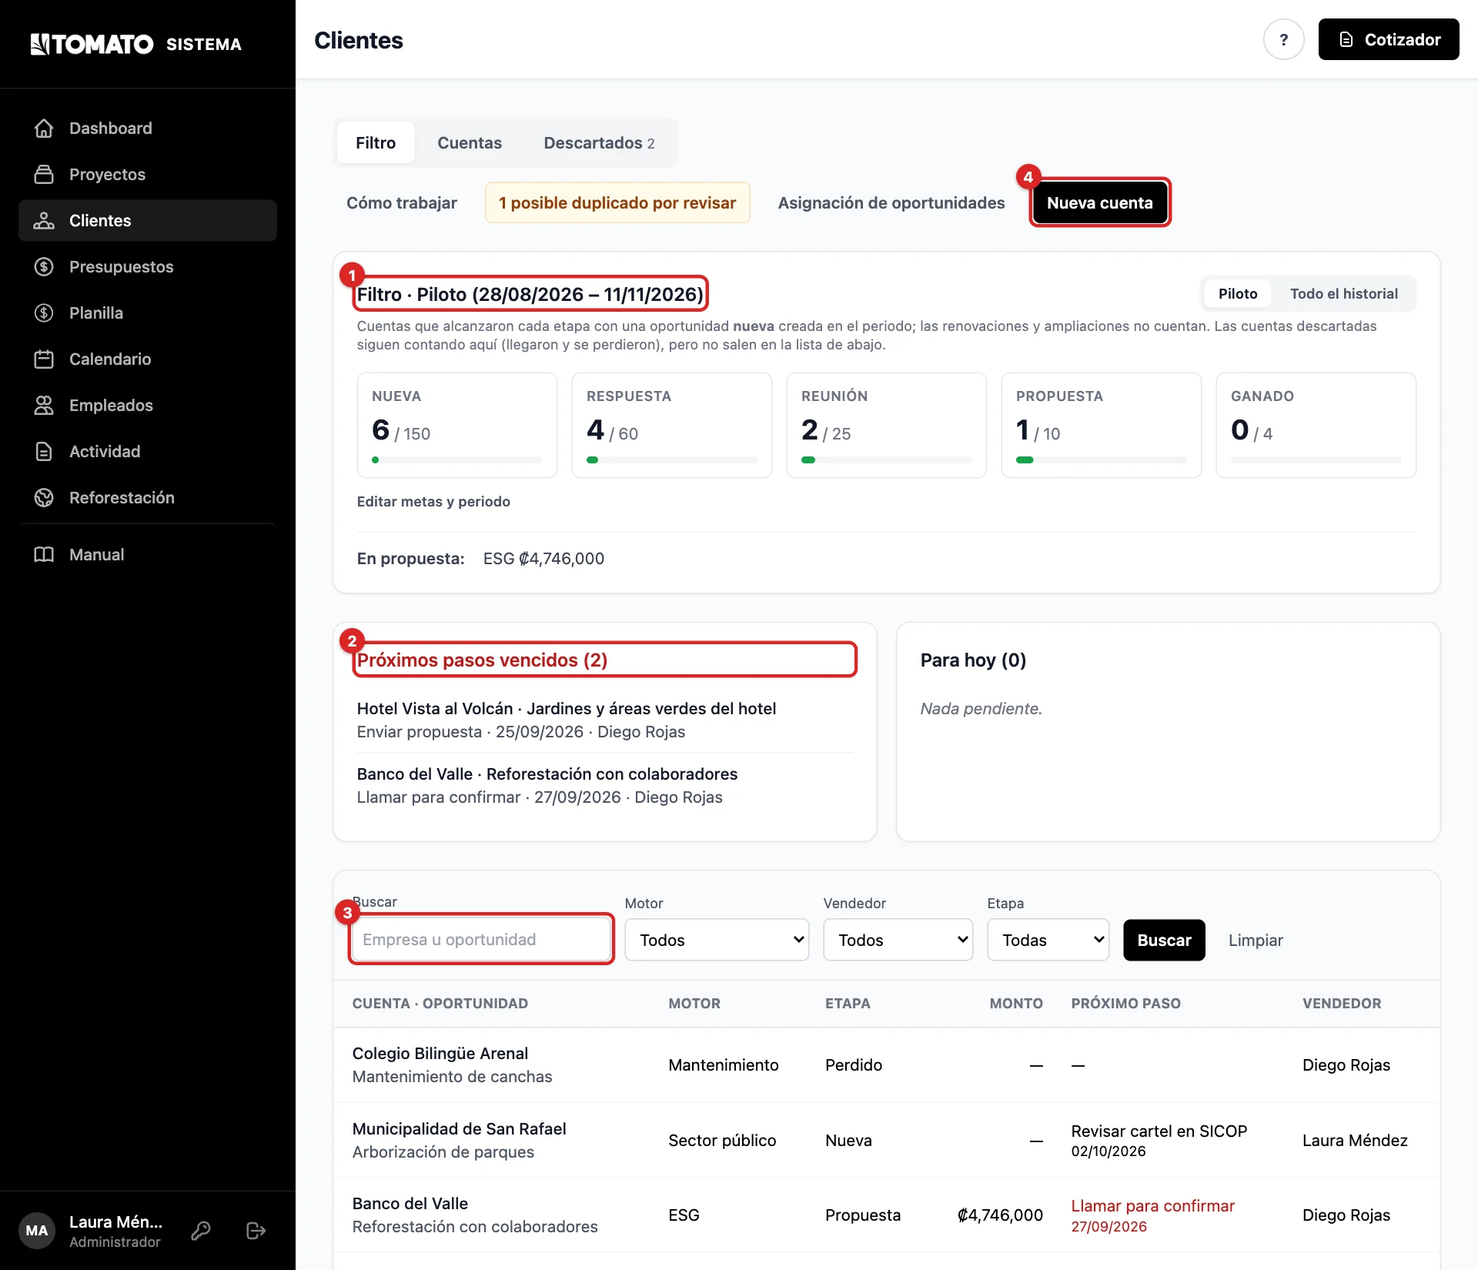
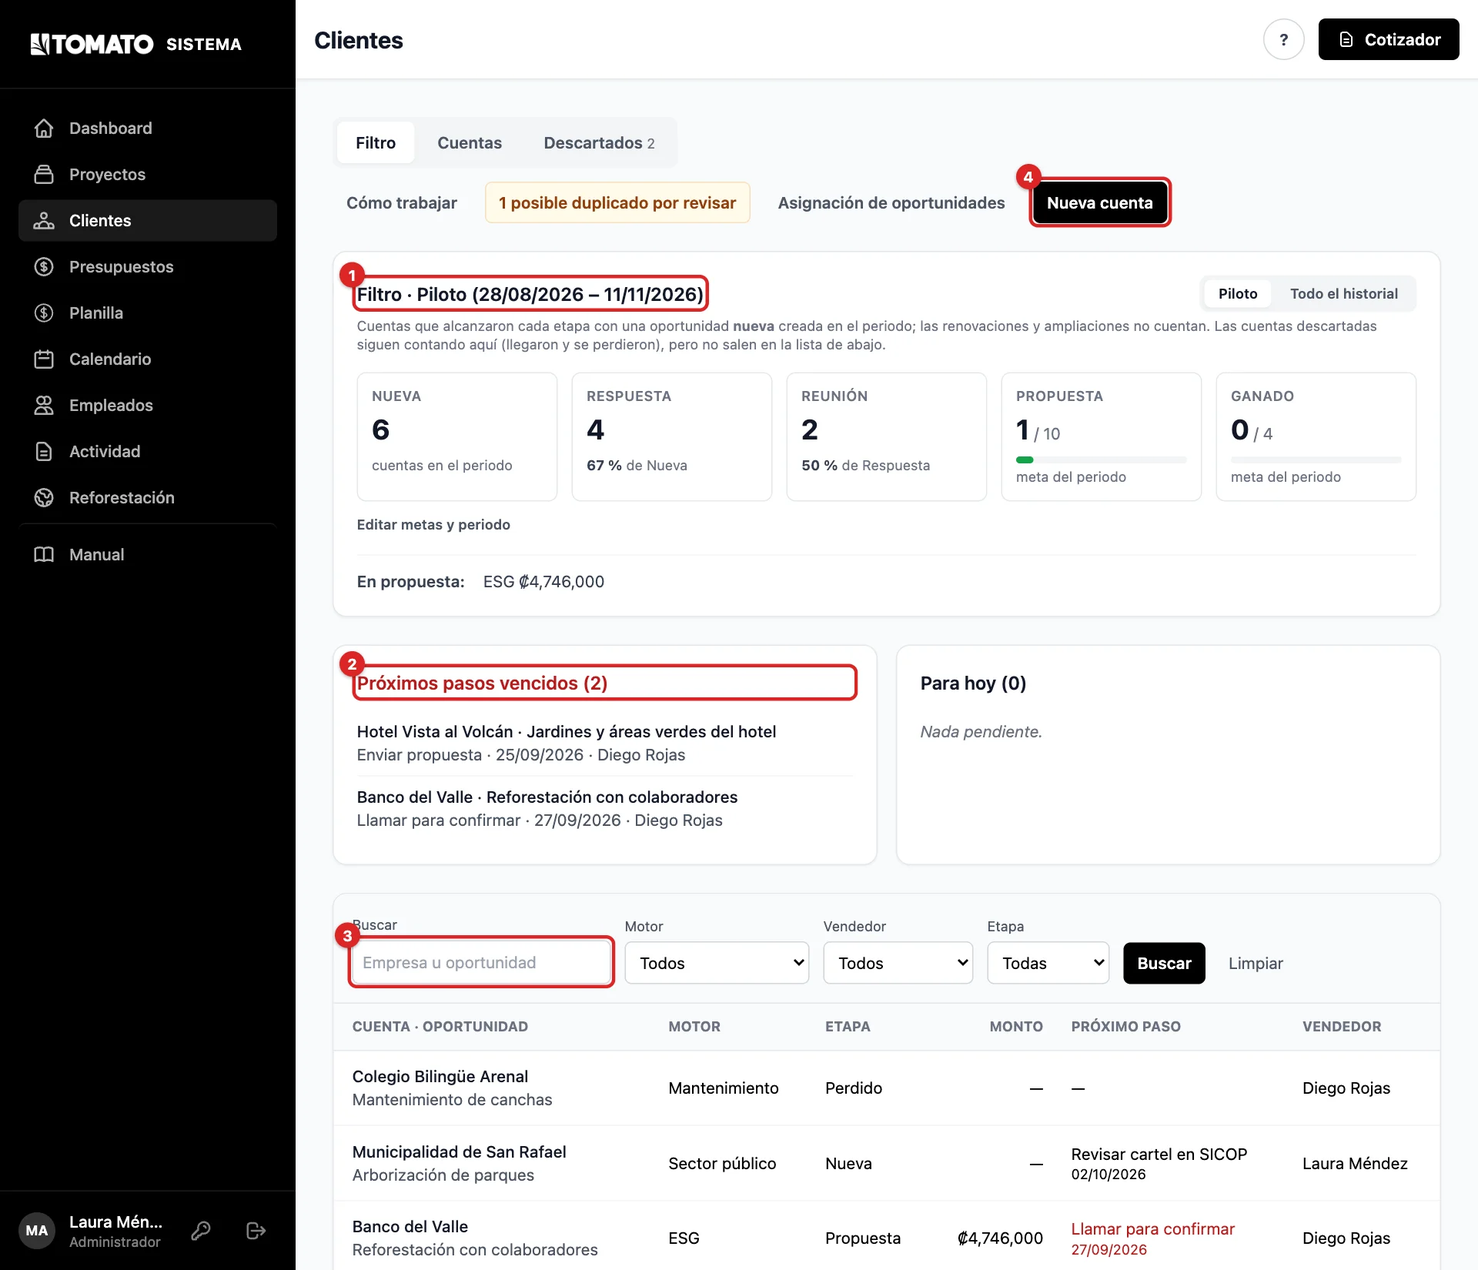
Filtro: targets only for Propuesta and Ganado, pass rates for the other boxes

diff --git a/app/templates/manual/clientes.html b/app/templates/manual/clientes.html
@@ -14,7 +14,7 @@
     simple: <strong>ninguna oportunidad abierta sin próximo paso y sin fecha</strong>.</p>
 {{ m.shot("clientes/embudo.webp", "Filtro de Clientes", "Clientes → Filtro.") }}
 {{ m.steps([
-    (1, "El <strong>Filtro</strong> del periodo: cuántas cuentas llegaron a cada etapa, contra la meta. <em>Todo el historial</em> muestra el conteo desde el inicio."),
+    (1, "El <strong>Filtro</strong> del periodo: cuántas cuentas llegaron a cada etapa. Propuesta y Ganado tienen meta; las otras cajas dicen qué parte pasó de la anterior. <em>Todo el historial</em> muestra el conteo desde el inicio."),
     (2, "<strong>Próximos pasos vencidos</strong> y <strong>Para hoy</strong>."),
     (3, "La lista de oportunidades, <strong>la más nueva arriba</strong>. Se busca por texto, motor, vendedor y etapa con <em>Buscar</em>."),
     (4, "<strong>Nueva cuenta</strong> para registrar una oportunidad. Las pestañas de arriba son <strong>Filtro</strong>, <strong>Cuentas</strong> y <strong>Descartados</strong>."),
@@ -93,11 +93,20 @@
 {% endcall %}
 
 {% call m.section("metas", "Qué cuenta para las metas") %}
+<p>Cada caja del Filtro es una etapa y cuenta cuántas cuentas <strong>llegaron por lo menos hasta ahí</strong>. Es
+    acumulado: una cuenta en Propuesta suma también en Nueva, Respuesta y Reunión, por eso los números bajan de
+    izquierda a derecha.</p>
+<p>Ejemplo con 5 empresas: A solo recibió tu correo, B contestó, C tuvo visita, D recibió cotización y E aceptó. Las
+    cajas quedan <strong>Nueva 5 · Respuesta 4 · Reunión 3 · Propuesta 2 · Ganado 1</strong>, y Reunión dice
+    <em>75 % de Respuesta</em> (3 de 4). Si después D se pierde, las cajas no cambian: llegó hasta Propuesta.</p>
 <ul class="list-disc space-y-1 pl-5">
+    <li><strong>Metas:</strong> solo <strong>Propuesta</strong> ({{ funnel[3].target or 'sin meta' }}) y <strong>Ganado</strong>
+        ({{ funnel[4].target or 'sin meta' }}) llevan meta, para todo el equipo y todo el periodo. Nueva, Respuesta y Reunión
+        muestran el <strong>% que pasó de la caja anterior</strong>: así se ve dónde se traba la venta sin inventar números.
+        Cuando el piloto dé las tasas reales, se pueden poner metas con más sentido.</li>
     <li>Cuentan las <strong>cuentas</strong> con una oportunidad de tipo <strong>Nuevo</strong> creada dentro del periodo ({{ period.label }}).</li>
     <li>Cuenta la <strong>etapa más alta alcanzada</strong>: si una oportunidad llegó a Reunión y después se perdió, sigue contando hasta Reunión.</li>
     <li>Las <strong>renovaciones y ampliaciones</strong> de clientes actuales no cuentan para las metas; igual se trabajan y aparecen en la lista.</li>
-    <li>Metas: {% for row in funnel %}{{ crm_labels.stage[row.stage] }} {{ row.target }}{{ ', ' if not loop.last }}{% endfor %}.</li>
 </ul>
 {% endcall %}
 
@@ -113,7 +122,7 @@
         llega un correo. La asignación automática de lo que entra por el formulario está en
         <a href="/clientes/asignacion" class="text-indigo-600 hover:underline">Asignación de oportunidades</a>.</li>
     <li><strong>Dueño de una cuenta:</strong> en la ficha de la cuenta, <em>Dueño</em> → <em>Reasignar</em>.</li>
-    <li><strong>Metas y periodo:</strong> en el Filtro, <em>Editar metas y periodo</em>.</li>
+    <li><strong>Metas y periodo:</strong> en el Filtro, <em>Editar metas y periodo</em>: la meta de Propuesta y de Ganado (vacío = sin meta), el nombre del periodo y sus fechas. Se calcula al momento, así que cambiar las fechas recalcula todo.</li>
     <li><strong>Marcar ganada:</strong> en la oportunidad, crea el proyecto ya ligado a la cuenta o liga uno existente.</li>
     <li><strong>Renovaciones:</strong> en el Filtro, <em>Contratos por vencer</em> muestra los contratos que terminan en
         90 días (en rojo, menos de 60). <em>Crear renovación</em> abre la oportunidad para el dueño de la cuenta.</li>

diff --git a/app/templates/crm/embudo.html b/app/templates/crm/embudo.html
@@ -3,6 +3,7 @@
 {% block title %}Filtro | Clientes | TOMATO{% endblock %}
 {% block header_title %}Clientes{% endblock %}
 
+{% from "crm/_funnel.html" import funnel_box %}
 {% macro money(value) %}{{ '₡{:,.0f}'.format(value) if value else '—' }}{% endmacro %}
 
 {% block content %}
@@ -26,21 +27,16 @@
             Las cuentas descartadas siguen contando aquí (llegaron y se perdieron), pero no salen en la lista de abajo.
         </p>
         <div class="mt-4 grid grid-cols-2 gap-3 sm:grid-cols-5">
-            {% for row in funnel %}
-            <div class="rounded-lg border border-gray-200 p-3">
-                <div class="text-xs font-semibold uppercase tracking-wide text-gray-500">{{ L.stage[row.stage] }}</div>
-                <div class="mt-1 text-2xl font-bold text-gray-900">{{ row.reached }}<span class="text-sm font-normal text-gray-500"> / {{ row.target }}</span></div>
-                <div class="mt-2 h-1.5 rounded bg-gray-100"><div class="h-1.5 rounded bg-green-600" style="width: {{ [row.pct or 0, 100]|min }}%"></div></div>
-            </div>
-            {% endfor %}
+            {% for row in funnel %}{{ funnel_box(row, funnel, loop.index0) }}{% endfor %}
         </div>
         {% if user.role == 'admin' %}
         <button type="button" @click="editGoals = !editGoals" class="mt-3 text-xs font-semibold text-gray-600 hover:text-black">Editar metas y periodo</button>
         <form x-show="editGoals" x-cloak method="post" action="/clientes/metas" class="mt-3 flex flex-wrap items-end gap-3 text-sm">
-            {% for row in funnel %}
+            <p class="w-full text-xs text-gray-500">Solo <strong>Propuesta</strong> y <strong>Ganado</strong> llevan meta (vacío = sin meta), para todo el periodo y todo el equipo. Las otras cajas muestran qué parte pasó de la caja anterior.</p>
+            {% for row in funnel if row.stage in goal_stages %}
             <label class="block">
-                <span class="text-xs text-gray-600">{{ L.stage[row.stage] }}</span>
-                <input type="number" min="0" name="{{ row.stage }}" value="{{ row.target }}" class="mt-1 block w-24 rounded-md border border-gray-300 p-2">
+                <span class="text-xs text-gray-600">Meta de {{ L.stage[row.stage] }}</span>
+                <input type="number" min="0" name="{{ row.stage }}" value="{{ row.target or '' }}" placeholder="Sin meta" class="mt-1 block w-28 rounded-md border border-gray-300 p-2">
             </label>
             {% endfor %}
             <label class="block">

diff --git a/app/templates/dashboard.html b/app/templates/dashboard.html
@@ -243,17 +243,13 @@
         </div>
         <a href="/clientes" class="text-sm font-semibold text-black hover:text-gray-600">Ver Clientes &rarr;</a>
     </div>
+    {% from "crm/_funnel.html" import funnel_box, funnel_line %}
     {% if data.crm_running %}
     <div class="mt-4 grid grid-cols-2 gap-3 sm:grid-cols-5">
-        {% for row in data.crm_funnel %}
-        <div class="rounded-lg border border-gray-200 p-3">
-            <div class="text-xs font-semibold uppercase tracking-wide text-gray-500">{{ crm_labels.stage[row.stage] }}</div>
-            <div class="mt-1 text-2xl font-bold text-gray-900">{{ row.reached }}<span class="text-sm font-normal text-gray-500"> / {{ row.target }}</span></div>
-        </div>
-        {% endfor %}
+        {% for row in data.crm_funnel %}{{ funnel_box(row, data.crm_funnel, loop.index0) }}{% endfor %}
     </div>
     {% else %}
-    <p class="mt-2 text-sm text-gray-600">{% for row in data.crm_funnel %}{{ crm_labels.stage[row.stage] }} {{ row.reached }}/{{ row.target }}{{ ' · ' if not loop.last }}{% endfor %}</p>
+    <p class="mt-2 text-sm text-gray-600">{{ funnel_line(data.crm_funnel) }}</p>
     {% endif %}
 </div>
 
@@ -533,12 +529,8 @@
     <p class="text-xs text-gray-500">{{ data.crm_period.label }} · tus oportunidades nuevas{% if not data.crm_running %} · el periodo no está en curso{% endif %}</p>
     {% if data.crm_running %}
     <div class="mt-4 grid grid-cols-2 gap-3 sm:grid-cols-5">
-        {% for row in data.crm_funnel %}
-        <div class="rounded-lg border border-gray-200 p-3">
-            <div class="text-xs font-semibold uppercase tracking-wide text-gray-500">{{ crm_labels.stage[row.stage] }}</div>
-            <div class="mt-1 text-2xl font-bold text-gray-900">{{ row.reached }}</div>
-        </div>
-        {% endfor %}
+        {% from "crm/_funnel.html" import funnel_box %}
+        {% for row in data.crm_funnel %}{{ funnel_box(row, data.crm_funnel, loop.index0, show_target=False) }}{% endfor %}
     </div>
     {% else %}
     <p class="mt-2 text-sm text-gray-600">{% for row in data.crm_funnel %}{{ crm_labels.stage[row.stage] }} {{ row.reached }}{{ ' · ' if not loop.last }}{% endfor %}</p>

diff --git a/app/templates/crm/_funnel.html b/app/templates/crm/_funnel.html
@@ -1,0 +1,21 @@
+{# One box of the Filtro. Propuesta and Ganado show their target and progress; the earlier
+   boxes, which have no target, show the share that passed from the previous box. #}
+{% macro funnel_box(row, rows, loop_index, show_target=True) %}
+<div class="rounded-lg border border-gray-200 p-3">
+    <div class="text-xs font-semibold uppercase tracking-wide text-gray-500">{{ crm_labels.stage[row.stage] }}</div>
+    <div class="mt-1 text-2xl font-bold text-gray-900">{{ row.reached }}{% if show_target and row.target %}<span class="text-sm font-normal text-gray-500"> / {{ row.target }}</span>{% endif %}</div>
+    {% if show_target and row.target %}
+    <div class="mt-2 h-1.5 rounded bg-gray-100"><div class="h-1.5 rounded bg-green-600" style="width: {{ [row.pct or 0, 100]|min }}%"></div></div>
+    <div class="mt-1 text-xs text-gray-500">meta del periodo</div>
+    {% elif loop_index == 0 %}
+    <div class="mt-2 text-xs text-gray-500">cuentas en el periodo</div>
+    {% elif row.from_previous is not none %}
+    <div class="mt-2 text-xs text-gray-500"><strong class="text-gray-700">{{ row.from_previous }} %</strong> de {{ crm_labels.stage[rows[loop_index - 1].stage] }}</div>
+    {% else %}
+    <div class="mt-2 text-xs text-gray-500">— de {{ crm_labels.stage[rows[loop_index - 1].stage] }}</div>
+    {% endif %}
+</div>
+{% endmacro %}
+
+{# The same, in one line (Dashboard, outside the period). #}
+{% macro funnel_line(rows) %}{% for row in rows %}{{ crm_labels.stage[row.stage] }} {{ row.reached }}{% if row.target %}/{{ row.target }}{% endif %}{{ ' · ' if not loop.last }}{% endfor %}{% endmacro %}

diff --git a/app/templates/manual/dashboard.html b/app/templates/manual/dashboard.html
@@ -17,7 +17,7 @@
     (3, "<strong>Dinero</strong>: <em>Por cobrar</em> (facturado que falta pagar), <em>Vencido</em>, <em>Facturado este mes</em> y <em>Por facturar</em> (adjudicado que falta facturar). Debajo, los proyectos activos y los totales adjudicado y facturado."),
     (4, "<strong>Filtros</strong>: filtran la lista de facturas por fecha de emisión y estado (Pendiente, Pago parcial, Vencida, Pagada). Con un filtro puesto se quedan abiertos y dicen <em>activos</em>."),
     (5, "<strong>Facturas por cobrar</strong>: sin filtros muestra las pendientes, con pago parcial y vencidas, de la que vence primero a la última. En el celular se ven como tarjetas. Tocá una para abrir el presupuesto del proyecto."),
-    (6, "<strong>Filtro comercial del equipo</strong>: cuántas cuentas llegaron a cada etapa en el periodo del piloto, contra la meta. Fuera del periodo se muestra en una sola línea. Ver el capítulo Clientes."),
+    (6, "<strong>Filtro comercial del equipo</strong>: cuántas cuentas llegaron a cada etapa en el periodo del piloto; Propuesta y Ganado contra su meta y las demás con el % que pasó de la anterior. Fuera del periodo se muestra en una sola línea. Ver el capítulo Clientes."),
 ]) }}
 {% endif %}
 

diff --git a/app/utils/crm.py b/app/utils/crm.py
@@ -11,7 +11,7 @@ from sqlalchemy import func
 from sqlalchemy.orm import Session
 
 from app.db.models.activity import ActivityLog
-from app.db.models.crm import (DEFAULT_GOALS, FUNNEL_STAGES, LABELS, STAGES, Account, AccountNotDuplicate, Contact,
+from app.db.models.crm import (DEFAULT_GOALS, FUNNEL_STAGES, GOAL_STAGES, LABELS, STAGES, Account, AccountNotDuplicate, Contact,
                                 CrmActivity, CrmGoal, CrmSetting, Opportunity, ProjectContactRole, stage_index)
 from app.db.models.finance import ProjectBudget
 from app.db.models.project_details import ProjectContact
@@ -344,11 +344,11 @@ def claim_if_unowned(entity, user: User):
 
 def goals(db: Session) -> Dict[str, int]:
     stored = {g.stage: g.target for g in db.query(CrmGoal)}
-    return {stage: stored.get(stage, DEFAULT_GOALS[stage]) for stage in FUNNEL_STAGES}
+    return {stage: stored.get(stage, DEFAULT_GOALS[stage]) if stage in GOAL_STAGES else 0 for stage in FUNNEL_STAGES}
 
 
 def set_goals(db: Session, targets: Dict[str, int]):
-    for stage in FUNNEL_STAGES:
+    for stage in GOAL_STAGES:
         if stage in targets:
             goal = db.get(CrmGoal, stage) or CrmGoal(stage=stage)
             goal.target = max(0, int(targets[stage]))
@@ -438,11 +438,15 @@ def funnel(db: Session, motor: Optional[str] = None, owner_id: Optional[int] = N
         best[account_id] = max(best.get(account_id, 0), max_stage or 0)
     targets = goals(db)
     rows = []
+    previous = None
     for index, stage in enumerate(FUNNEL_STAGES):
         reached = sum(1 for value in best.values() if value >= index)
         target = targets[stage]
         rows.append({"stage": stage, "reached": reached, "target": target,
-                     "pct": round(100 * reached / target) if target else None})
+                     "pct": round(100 * reached / target) if target else None,
+                     # Share of the previous box that got here ("de 12 respuestas, 5 llegaron a reunión").
+                     "from_previous": round(100 * reached / previous) if previous else None})
+        previous = reached
     return rows
 
 

diff --git a/app/routers/crm.py b/app/routers/crm.py
@@ -9,7 +9,7 @@ from sqlalchemy.orm import Session
 
 from app.core.roles import ADMIN, VENTAS
 from app.core.templates import templates
-from app.db.models.crm import (ACCOUNT_KINDS, ACTIVITY_TYPES, ASSIGNMENT_DEFAULT, FUNNEL_STAGES, LABELS, MOTORS,
+from app.db.models.crm import (ACCOUNT_KINDS, ACTIVITY_TYPES, ASSIGNMENT_DEFAULT, FUNNEL_STAGES, GOAL_STAGES, LABELS, MOTORS,
                                OPPORTUNITY_KINDS, STAGES, Account, Contact, CrmActivity, CrmAssignment, Opportunity,
                                ProjectContactRole)
 from app.db.models.project import Project
@@ -121,7 +121,7 @@ def pipeline(request: Request, motor: Optional[str] = None, owner: Optional[str]
         "steps": next_steps(db, owner_id),
         "amounts": proposal_amounts(db, owner_id),
         "opportunities": [(o, quote_amount(db, o)) for o in opportunities],
-        "sellers": sellers(db), "motors": MOTORS, "stages": STAGES, "funnel_stages": FUNNEL_STAGES,
+        "sellers": sellers(db), "motors": MOTORS, "stages": STAGES, "funnel_stages": FUNNEL_STAGES, "goal_stages": GOAL_STAGES,
         "filters": {"motor": motor, "owner": owner_id, "stage": stage, "q": q or ""},
         "duplicates": len(find_duplicates(db)) if user.role == ADMIN else 0,
         "discarded": discarded_count(db),
@@ -140,8 +140,8 @@ def guide(user: User = Depends(view_roles)):
 async def update_goals(request: Request, db: Session = Depends(deps.get_db), user: User = Depends(admin_only)):
     form = await request.form()
     targets = {}
-    for stage in FUNNEL_STAGES:
-        value = (form.get(stage) or "").strip()
+    for stage in GOAL_STAGES:  # empty = no target
+        value = (form.get(stage) or "").strip() or "0"
         if not value.isdigit():
             return toast_redirect("/clientes", "Las metas deben ser números enteros", error=True)
         targets[stage] = int(value)

diff --git a/tests/test_crm_clientes.py b/tests/test_crm_clientes.py
@@ -174,15 +174,22 @@ def test_funnel_counts_accounts_by_highest_stage(db, crm):
     db.commit()
     rows = {r["stage"]: r for r in funnel(db)}
     assert [rows[s]["reached"] for s in ["prospecto", "respuesta", "reunion", "propuesta", "ganado"]] == [2, 2, 2, 1, 0]
-    assert rows["prospecto"]["target"] == 150  # default when no goals are stored
+    # Only Propuesta and Ganado have a target; the other boxes show the share from the previous one.
+    assert [rows[s]["target"] for s in ["prospecto", "respuesta", "reunion", "propuesta", "ganado"]] == [0, 0, 0, 10, 4]
+    assert rows["prospecto"]["from_previous"] is None and rows["respuesta"]["from_previous"] == 100
+    assert rows["propuesta"]["from_previous"] == 50 and rows["ganado"]["from_previous"] == 0
     assert {r["stage"]: r["reached"] for r in funnel(db, motor="mantenimiento")}["propuesta"] == 0
 
 
 def test_goals_are_editable(db, login_as, crm):
     post(login_as("admin"), "/clientes/metas", {"prospecto": "200", "respuesta": "80", "reunion": "30",
                                                 "propuesta": "12", "ganado": "5"})
-    assert db.get(CrmGoal, "prospecto").target == 200
-    assert "/ 200" in login_as("admin").get("/clientes").text
+    assert db.get(CrmGoal, "propuesta").target == 12 and db.get(CrmGoal, "ganado").target == 5
+    assert db.get(CrmGoal, "prospecto") is None  # the earlier stages have no target
+    html = login_as("admin").get("/clientes").text
+    assert "/ 12" in html and "/ 5" in html and "de Nueva" in html
+    post(login_as("admin"), "/clientes/metas", {"propuesta": "", "ganado": "6"})
+    assert db.get(CrmGoal, "propuesta").target == 0  # empty = no target
 
 
 def test_amount_comes_from_the_linked_quote(db, crm):

diff --git a/app/db/models/crm.py b/app/db/models/crm.py
@@ -22,8 +22,11 @@ ACTIVITY_TYPES = ("llamada", "correo", "whatsapp", "visita", "reunion", "nota", 
 
 # Stages counted in the funnel, in order ("perdido" is not a step of the funnel).
 FUNNEL_STAGES = STAGES[:5]
-# Pilot targets per funnel stage (docs/PLAN_SISTEMA_COMERCIAL.md); editable by admin.
-DEFAULT_GOALS = {"prospecto": 150, "respuesta": 60, "reunion": 25, "propuesta": 10, "ganado": 4}
+# Only these stages have a target (editable by admin; 0 = no target). The earlier boxes show
+# the share that passed from the previous box instead: there is no data yet to set real
+# targets for them (decided 29/09/2026).
+GOAL_STAGES = ("propuesta", "ganado")
+DEFAULT_GOALS = {"prospecto": 0, "respuesta": 0, "reunion": 0, "propuesta": 10, "ganado": 4}
 
 LABELS = {
     "stage": {"prospecto": "Nueva", "respuesta": "Respuesta", "reunion": "Reunión", "propuesta": "Propuesta",

diff --git a/docs/DISENO_CRM.md b/docs/DISENO_CRM.md
@@ -145,3 +145,11 @@ Por confirmar: usuarios de Melina y Albert (rol ventas) para asignarles sus moto
 - **Borrar** (solo admin, `delete_account`): solo cuentas descartadas sin proyectos, proyectos de reforestación, cotizaciones (de la cuenta o de sus oportunidades), contactos que sean usuarios del portal ni cuentas fusionadas en ella. Borra contactos, roles de contacto por proyecto, marcas de "no duplicado", oportunidades, seguimientos y la cuenta; queda un registro DELETE en Actividad.
 - Las tablas de oportunidades y de cuentas van de la más nueva a la más vieja.
 - En pantalla: "Embudo" → "Filtro" (el botón de la lista pasa a "Buscar"), estado "Prospecto" → "Oportunidad", etapa "Prospecto" → "Nueva", "Asignación de prospectos" → "Asignación de oportunidades", correo "Nuevo prospecto" → "Nueva oportunidad". Los valores en la base no cambian.
+
+## Metas solo en Propuesta y Ganado (29/09/2026)
+
+- Las metas de 150, 60 y 25 para Nueva, Respuesta y Reunión venían del plan del piloto, no de datos de TOMATO. Desde ahora solo **Propuesta** y **Ganado** tienen meta (`GOAL_STAGES`; por defecto 10 y 4; vacío = sin meta). Las filas guardadas en `crm_goals` para las otras etapas se ignoran.
+- Las cajas sin meta muestran la **tasa de paso** desde la caja anterior (`from_previous` en `funnel()`): "50 % de Respuesta" en Reunión quiere decir que la mitad de las cuentas que respondieron llegaron a reunión. Nueva muestra el total del periodo.
+- Mismo formato en el Filtro y en el Dashboard (`templates/crm/_funnel.html`). "Mi filtro" de ventas muestra solo conteos y tasas.
+- Cuando el piloto dé las tasas reales, se puede volver a poner metas en las etapas intermedias calculándolas hacia atrás desde la meta de Ganado.
+

diff --git a/CHANGELOG.md b/CHANGELOG.md
@@ -6,7 +6,16 @@ desplegar. Hora de Costa Rica salvo que diga UTC.
 
 ## 2026-09-29
 
-### Clientes: Descartados, lo nuevo arriba y nombres nuevos (esta rama)
+### Filtro: metas solo en Propuesta y Ganado (esta rama)
+- Nueva, Respuesta y Reunión ya no tienen meta (150, 60 y 25 venían del plan, no de datos
+  reales): muestran el **% que pasó de la caja anterior** ("50 % de Respuesta").
+  Propuesta y Ganado mantienen su meta (10 y 4) con la barra de avance.
+- *Editar metas y periodo* pide solo esas dos metas (vacío = sin meta). Mismo formato en
+  el Dashboard.
+- Manual (Clientes: qué cuenta cada caja, con un ejemplo; Dashboard) y capturas al día.
+- Despliegue: sin migraciones; reiniciar.
+
+### Clientes: Descartados, lo nuevo arriba y nombres nuevos (#92)
 - **Descartar cliente desde la oportunidad** (además de la ficha de la cuenta): pide el
   motivo, cierra como perdidas las oportunidades abiertas de la cuenta y la manda a la
   pestaña nueva **Descartados**. Sale de Filtro y de Cuentas; se puede **Reactivar**, y

diff --git a/README.md b/README.md
@@ -110,8 +110,10 @@ Un entorno administrativo enfocado en la supervisión de proyectos, reportes de 
 - **Menú "Clientes"** (admin y ventas):
   - **Filtro** (`/clientes`; en el código y en las URL sigue llamándose
     embudo): cuentas que alcanzaron cada etapa (nueva, respuesta, reunión,
-    propuesta, ganado) contra metas que edita el admin
-    (piloto: 150, 60, 25, 10, 4); monto en propuesta por motor, tomado de la
+    propuesta, ganado). Solo **Propuesta y Ganado tienen meta** (la edita el
+    admin, vacío = sin meta; piloto: 10 y 4); Nueva, Respuesta y Reunión
+    muestran el % que pasó de la caja anterior (`GOAL_STAGES` en
+    `app/db/models/crm.py`); monto en propuesta por motor, tomado de la
     cotización ligada; próximos pasos vencidos y de hoy; lista de
     oportunidades **de la más nueva a la más vieja**, con búsqueda por texto,
     motor, vendedor y etapa (botón "Buscar"). Las cuentas descartadas no salen
